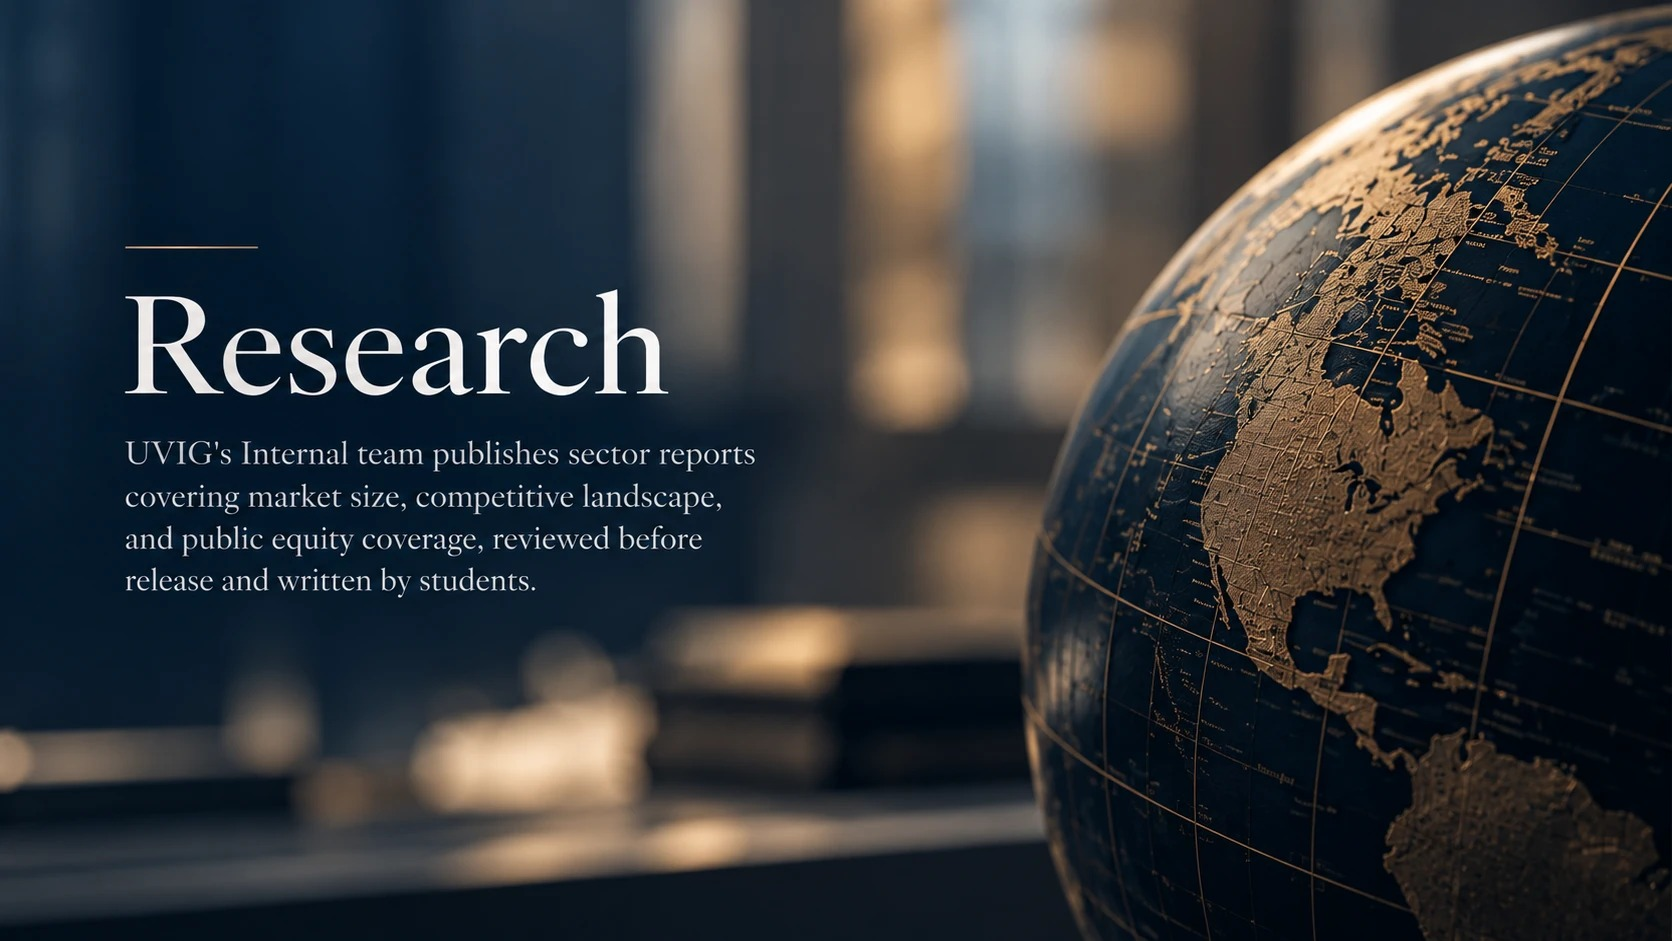
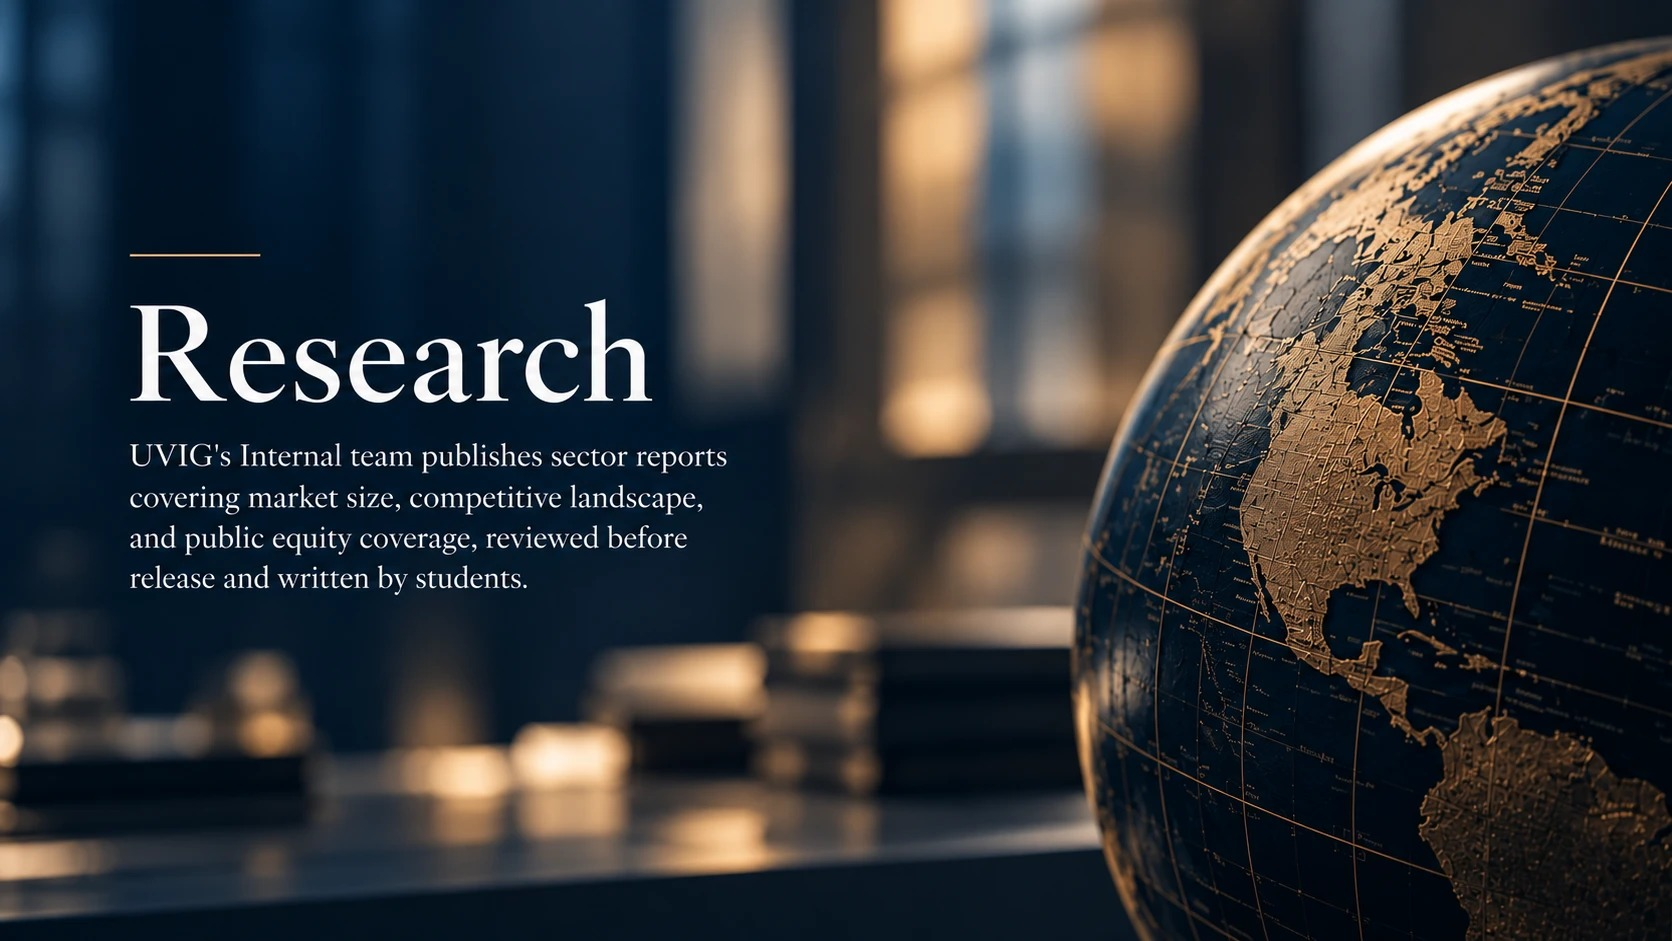
Swap research hero photo and match other pages' hero size (#18)
* Update membership page copy/flow and make homepage hero full-bleed

- Rewrite intro, perks list, and success screen text on join.html
- Add zero-commitment note, drop stray "check this email" note
- Convert faculty/program to a preset dropdown (BCom/Econ BSc/Econ BA/Other) with free-text fallback
- Personalize the confirmation screen with the member's first name
- Remove the hero eyebrow line and one carousel slide, and make the homepage hero full-bleed (no side margins, flush under the header, taller)

* Auto-expire confirmed events into past, and tweak join form placeholder

- Upcoming lists (homepage banner + events page) now only show confirmed
  events whose date hasn't passed; a confirmed event that has already
  happened automatically moves into the Past Events list instead
- Events page shows a friendly note when there are no confirmed upcoming
  events; homepage hides the Upcoming Events banner in that case
- Join form's name field placeholder is now "Your name" instead of a
  real name

* Add puzzle score submission + quick mode, homepage puzzles preview, and join/events copy fixes

- events.html: friendlier empty-state copy for no confirmed events
- join.html: drop the "See upcoming events" button and the duplicate
  name mention in the success screen body
- crossword.html: add a Quick Mode toggle (roughly halves the crossword
  word list and trivia question count), and a "Submit your score" form
[…]

diff --git a/style.css b/style.css
@@ -1160,13 +1160,9 @@ footer{border-radius:var(--r-xl) var(--r-xl) 0 0;}
 .page-hero-photo .hero-eyebrow{color:#E8DCC0; animation:heroFadeUp .7s var(--ease) both .15s;}
 .page-hero-photo h1{color:var(--white); font-size:52px; line-height:1.08; letter-spacing:-0.01em; max-width:18ch; animation:heroFadeUp .7s var(--ease) both .25s;}
 .page-hero-photo p.lede{color:#D7DEE8; animation:heroFadeUp .7s var(--ease) both .37s;}
-/* Research hero: the photo itself already carries the title/copy, so show it
-   uncropped (container aspect matches the image) with no text overlay. */
-.page-hero-photo-clean{
-  padding:0; aspect-ratio:1672/941;
-  max-width:1132px; /* matches the content width inside .wrap (maxw 1180 minus its 24px side padding) */
-  margin:14px auto 0;
-}
+/* Research hero: the photo itself already carries the title/copy, so it has
+   no separate overlay text — sized to match the other pages' photo heroes. */
+.page-hero-photo-clean{min-height:391px;}
 .page-hero-photo-clean::after{display:none;}
 .page-hero-photo .wrap::after{
   content:""; display:block; width:56px; height:3px; border-radius:3px; background:var(--brass); margin-top:26px;
@@ -1222,7 +1218,8 @@ footer{border-radius:var(--r-xl) var(--r-xl) 0 0;}
   .firms-marquee{margin:32px 10px 0;}
   footer{border-radius:22px 22px 0 0;}
   .page-hero-photo{padding:84px 0 64px;}
-  .page-hero-photo-clean{padding:0;}
+  .page-hero-photo-clean{padding:0; min-height:337px;}
+  .page-hero-photo-clean .page-hero-bg{background-position:18% center;}
   .page-hero-photo h1{font-size:36px;}
   .event-date-block{width:fit-content; padding:10px 16px; border-radius:var(--r-pill);}
   .event-flyer-thumb{width:100px;}
